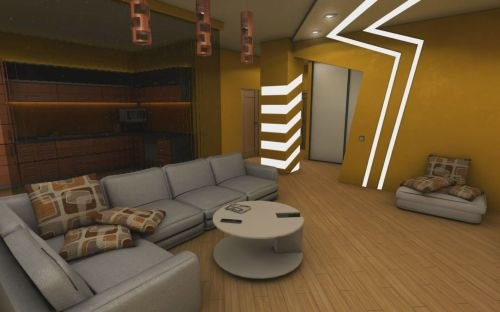
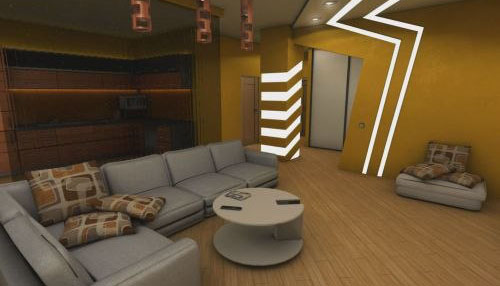
Resized images to better fit packery portfolio

diff --git a/css/style.css b/css/style.css
@@ -659,9 +659,11 @@ textarea {
 	overflow: hidden;
 	text-align: center;
 	margin: 0 auto;
+	margin-right: auto;
+	margin-left: auto;
 }
 .isotope-item {
-	max-width: 500px;
+	max-width: 400px;
 }
 .isotope-item .btn-default {
 	color: #999999;
